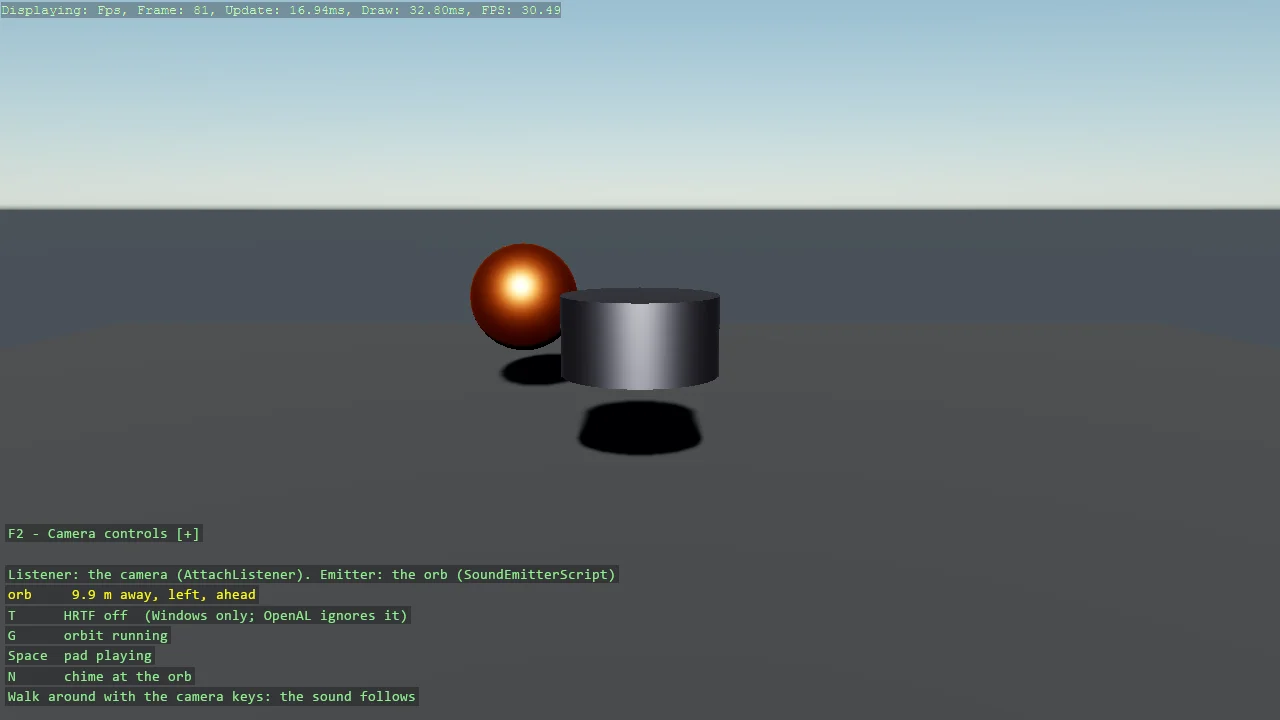
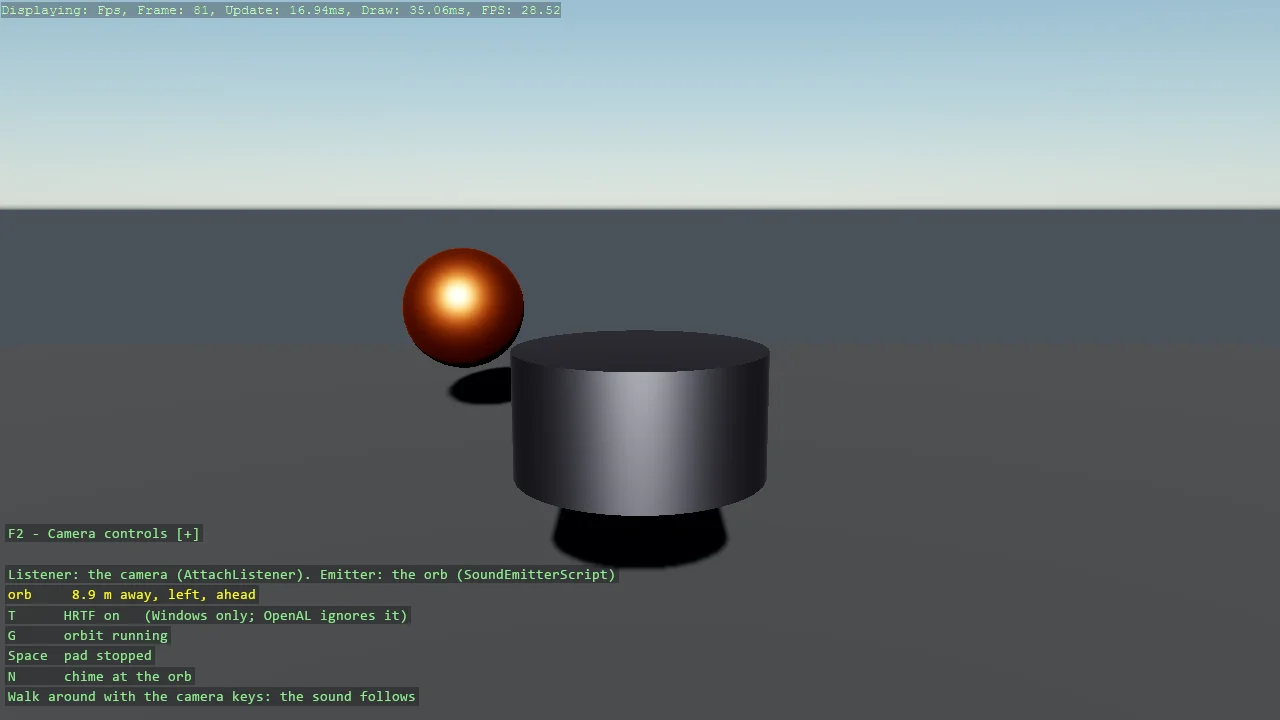
docs: Example content updated

Changed region(s): [[0.3125, 0.3361, 0.625, 0.7944], [0.4062, 0.0, 0.4375, 0.0306], [0.0938, 0.8861, 0.125, 0.9167]]

diff --git a/build/generate-example-sounds.cs b/build/generate-example-sounds.cs
@@ -44,9 +44,10 @@ static short[] Chime(int rate)
     return samples;
 }
 
-// Eight seconds of two detuned notes with a slow swell. Every frequency completes a whole number of
-// cycles in the loop length and the swell has a whole number of periods, so the end meets the start
-// with no seam.
+// Eight seconds of a steady organ-like chord. Steady on purpose: the spatial example uses it, and
+// any loudness change baked into the file would be heard as distance. That rules out a swell and
+// also detuned pairs, whose beating is a slow tremolo. Every frequency completes a whole number of
+// cycles in the loop length, so the end meets the start with no seam.
 static short[] PadLoop(int rate)
 {
     const int Seconds = 8;
@@ -54,9 +55,9 @@ static short[] PadLoop(int rate)
     var length = rate * Seconds;
     var samples = new short[length];
 
-    // Whole cycles over the loop: f = n / Seconds. 220 Hz needs n = 1760, 220.5 Hz would not loop; 220.25 does.
-    float[] notes = [220f, 220.25f, 330f, 329.75f, 440f];
-    float[] gains = [0.28f, 0.28f, 0.16f, 0.16f, 0.08f];
+    // Whole cycles over the loop: f = n / Seconds, which every multiple of 0.125 Hz satisfies.
+    float[] notes = [220f, 330f, 440f, 660f, 880f];
+    float[] gains = [0.34f, 0.22f, 0.16f, 0.10f, 0.05f];
 
     for (var i = 0; i < length; i++)
     {
@@ -66,10 +67,7 @@ static short[] PadLoop(int rate)
         for (var n = 0; n < notes.Length; n++)
             value += gains[n] * MathF.Sin(2 * MathF.PI * notes[n] * t);
 
-        // Swell: two full periods in the loop, never fully silent.
-        var swell = 0.65f + 0.35f * MathF.Sin(2 * MathF.PI * 2 * t / Seconds);
-
-        samples[i] = (short)(value * swell * short.MaxValue);
+        samples[i] = (short)(value * short.MaxValue);
     }
 
     return samples;
